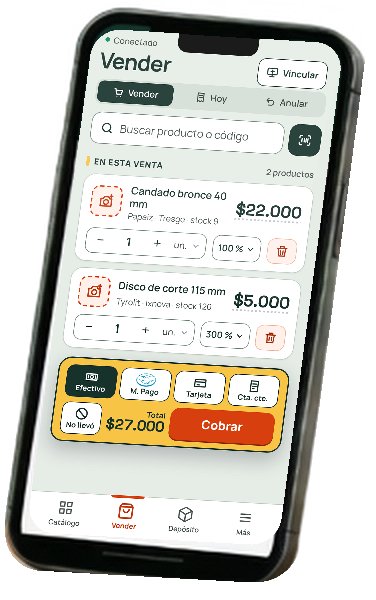
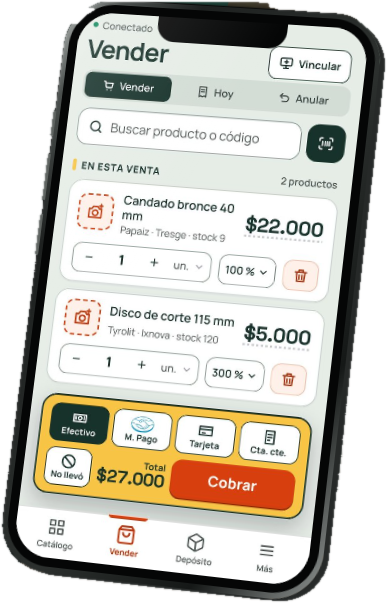
Entrada de la computadora: el celular que pasó Carlos, sin su fondo, y los textos de la izquierda separados como en la referencia (007-T013, 007-T014)
Claude-Session: https://claude.ai/code/session_01K4JzvhtHnM1hp5ZTrcQ7Mo

diff --git a/microservices/web/src/pantallas/compu/base/estilos/entrar-con-celular.css b/microservices/web/src/pantallas/compu/base/estilos/entrar-con-celular.css
@@ -20,17 +20,17 @@
 .entrar-cc-fondo { position: absolute; inset: 0; background: #0b3a30 center / 100% 100% no-repeat; }
 
 /* La marca, a la izquierda sobre el verde */
-.entrar-cc-marca { position: absolute; left: calc(80 / 1536 * 100%); top: calc(76 * var(--u)); width: max(330px, calc(480 * var(--u))); color: #fff; }
+.entrar-cc-marca { position: absolute; left: calc(80 / 1536 * 100%); top: calc(64 * var(--u)); width: max(330px, calc(480 * var(--u))); color: #fff; }
 /* La marca trae su tamaño escrito en el elemento; acá sigue el alto de la ventana. */
-.entrar-cc-marca .marca { display: block; font-size: calc(50 * var(--u)) !important; margin: 0 0 calc(22 * var(--u)) calc(-6 * var(--u)); }
+.entrar-cc-marca .marca { display: block; font-size: calc(50 * var(--u)) !important; margin: 0 0 calc(35 * var(--u)) calc(-6 * var(--u)); }
 .entrar-cc-antetitulo { margin: 0; font-size: 14px; font-weight: 600; letter-spacing: 0.34em; text-transform: uppercase; color: #7fae98; }
-.entrar-cc-marca h1 { margin: calc(4 * var(--u)) 0 calc(24 * var(--u)); font-size: calc(60 * var(--u)); line-height: 1.03; font-weight: 800; letter-spacing: -0.015em; color: #fff; }
+.entrar-cc-marca h1 { margin: calc(9 * var(--u)) 0 calc(31 * var(--u)); font-size: calc(60 * var(--u)); line-height: 1.07; font-weight: 800; letter-spacing: -0.015em; color: #fff; }
 .entrar-cc-marca h1 em { font-style: normal; color: var(--cc-menta); }
-.entrar-cc-bajada { margin: 0 0 calc(28 * var(--u)); max-width: max(330px, calc(470 * var(--u))); font-size: max(14px, calc(17.5 * var(--u))); line-height: 1.55; color: #c4d4cd; }
-.entrar-cc-puntos { margin: 0; padding: 0; list-style: none; display: flex; flex-direction: column; gap: calc(23 * var(--u)); }
+.entrar-cc-bajada { margin: 0 0 calc(46 * var(--u)); max-width: max(330px, calc(470 * var(--u))); font-size: max(14px, calc(17.5 * var(--u))); line-height: 1.55; color: #c4d4cd; }
+.entrar-cc-puntos { margin: 0; padding: 0; list-style: none; display: flex; flex-direction: column; gap: calc(25 * var(--u)); }
 .entrar-cc-puntos li { display: flex; align-items: center; gap: calc(20 * var(--u)); font-size: max(14px, calc(19 * var(--u))); line-height: 1.42; color: #f2f6f4; }
 .entrar-cc-puntos li > span:first-child { flex: none; display: grid; place-items: center; width: calc(66 * var(--u)); height: calc(68 * var(--u)); border-radius: 12px; background: #21443b; color: var(--cc-naranja); }
-.entrar-cc-puntos li > span:first-child svg { width: calc(32 * var(--u)); height: calc(32 * var(--u)); }
+.entrar-cc-puntos li > span:first-child svg { width: calc(44 * var(--u)); height: calc(44 * var(--u)); stroke-width: 1.9; }
 
 /* La frase manuscrita, con su flecha */
 .entrar-cc-lema { position: relative; margin: calc(78 * var(--u)) 0 0 calc(4 * var(--u)); }
@@ -40,7 +40,7 @@
 .entrar-cc-manuscrito span:nth-child(3) { padding-left: calc(66 * var(--u)); }
 .entrar-cc-flecha { position: absolute; left: calc(192 * var(--u)); top: calc(32 * var(--u)); width: calc(116 * var(--u)); height: calc(64 * var(--u)); fill: none; stroke: #8fd0a8; stroke-width: 2.4; stroke-linecap: round; }
 
-.entrar-cc-celular { position: absolute; left: calc(524 / 1600 * 100%); top: calc(330 / 1024 * 100%); height: calc(600 / 1024 * 100%); width: auto; aspect-ratio: 376 / 600; pointer-events: none; }
+.entrar-cc-celular { position: absolute; left: calc(524 / 1600 * 100%); top: calc(330 / 1024 * 100%); height: calc(600 / 1024 * 100%); width: auto; aspect-ratio: 387 / 603; pointer-events: none; }
 
 /* La tarjeta para entrar, a la derecha sobre lo claro */
 .entrar-cc-tarjeta { position: absolute; right: calc(46 / 1536 * 100%); top: calc(100 * var(--u)); width: max(440px, calc(588 * var(--u))); display: flex; flex-direction: column; gap: calc(20 * var(--u));

diff --git a/tests/capturas/entrada-compu.py b/tests/capturas/entrada-compu.py
@@ -3,6 +3,7 @@ Carlos (specs/007-usuarios-y-acceso/maquetas/capas/) y de una captura real de Ve
 
     python tests/capturas/capturar.py vender --celu ...   # la venta, en 390 × 790 (ver más abajo)
     uv run --with pillow --with numpy python tests/capturas/entrada-compu.py tests/capturas/salida/cel-vender-celu.png
+    uv run --with pillow --with numpy --with scipy python tests/capturas/entrada-compu.py --celular-con-venta
 
 Deja en microservices/web/src/pantallas/compu/base/imagenes/:
 - entrar-fondo.jpg: las formas del fondo, la foto del local y la mesa, sin el celular.
@@ -100,5 +101,34 @@ def main(captura: str):
     print("listo:", SALIDA / "entrar-fondo.jpg", SALIDA / "entrar-celular.png", "celular en", (x0, y0, x1, y1), "de", (ancho, alto))
 
 
+def recortar_celular(origen: Path):
+    """El celular que armó Carlos con la venta ya puesta (capas/celular-con-venta.png), sin su
+    fondo. El marco es negro o gris sin color, y el fondo es verde o madera: se toma la mancha
+    más grande de gris oscuro (el marco) y todo lo que queda adentro de ella."""
+    from scipy import ndimage
+    im = Image.open(origen).convert("RGBA")
+    a = np.array(im).astype(int)
+    gris = (np.abs(a[..., 0] - a[..., 1]) < 14) & (np.abs(a[..., 1] - a[..., 2]) < 14) & (a[..., :3].max(-1) < 110)
+    manchas, n = ndimage.label(gris)
+    marco = manchas == 1 + int(np.argmax(ndimage.sum(gris, manchas, range(1, n + 1))))
+    # Arriba, el marco se toca con un pedacito del fondo: el celular empieza donde el marco ya es ancho.
+    anchos = marco.sum(1)
+    arriba = int(np.argmax(anchos > 60))
+    marco[:arriba] = False
+    adentro = np.zeros_like(marco)
+    for y in range(marco.shape[0]):
+        xs = np.where(marco[y])[0]
+        if len(xs) > 1: adentro[y, xs.min():xs.max() + 1] = True
+    adentro = ndimage.binary_erosion(adentro, iterations=1)
+    mascara = Image.fromarray((adentro * 255).astype("uint8")).filter(ImageFilter.GaussianBlur(0.7))
+    im.putalpha(mascara)
+    im.crop(im.getbbox()).save(SALIDA / "entrar-celular.png", optimize=True)
+    print("listo:", SALIDA / "entrar-celular.png", im.getbbox())
+
+
 if __name__ == "__main__":
-    main(sys.argv[1] if len(sys.argv) > 1 else str(RAIZ / "tests/capturas/salida/cel-vender-celu.png"))
+    # --celular-con-venta: usa el celular que pasó Carlos (con la venta ya puesta) en vez de armarlo.
+    if "--celular-con-venta" in sys.argv:
+        recortar_celular(CAPAS / "celular-con-venta.png")
+    else:
+        main(sys.argv[1] if len(sys.argv) > 1 else str(RAIZ / "tests/capturas/salida/cel-vender-celu.png"))

diff --git a/specs/007-usuarios-y-acceso/tasks.md b/specs/007-usuarios-y-acceso/tasks.md
@@ -21,3 +21,5 @@ tareas»). Las funcionalidades nuevas tienen su propia carpeta.
 - [x] T010 [interfaz] La entrada de la computadora copia la imagen de referencia de Carlos: verde con la marca, foto con un celular que muestra una venta, y la tarjeta sobre fondo claro (decisión 93); el celular no cambia
 - [x] T011 [interfaz] La entrada de la computadora se parece más a la referencia de Carlos y su kit de capas: un celular con espesor y marco metálico, el botón de Google a todo el ancho de la tarjeta, los tres puntos cortados como en la referencia y el verde con su degradé (decisión 93)
 - [x] T012 [interfaz] La entrada de la computadora se arma con las capas que pasó Carlos: sus formas del fondo, la foto del local y el celular, con la pantalla real de la venta puesta en perspectiva (decisión 93)
+- [x] T013 [interfaz] El celular de la entrada de la computadora es el que pasó Carlos con la venta ya puesta, sin su fondo, que se ve más nítido (decisión 93)
+- [x] T014 [ajuste] En la entrada de la computadora, la separación entre el logotipo, el antetítulo, el título, la bajada y las tres cosas que hace, y el tamaño de sus íconos, siguen la imagen de referencia de Carlos (decisión 93)

diff --git a/specs/007-usuarios-y-acceso/ux.md b/specs/007-usuarios-y-acceso/ux.md
@@ -125,8 +125,12 @@ tarjeta; cada una de las tres cosas que hace corta en el mismo lugar que la refe
 tiene un degradé suave con arcos. Después Carlos pasó las capas sueltas
 (`maquetas/capas/`): el fondo, la foto del local y el celular salen de ellas; el texto y la
 tarjeta siguen siendo de la aplicación (las capas los traen como imagen, con letras deformadas).
-La pantalla del celular es la captura real de la venta, puesta en perspectiva sobre la del
-celular de la capa.
+El celular es el que pasó Carlos con la venta ya puesta (`maquetas/capas/celular-con-venta.png`),
+sin su fondo: se ve más nítido que el de la capa. Si cambia la pantalla de Vender, se vuelve a
+armar con la captura nueva sobre el celular de la capa, o con otro celular que pase Carlos.
+La separación de los textos de la izquierda (logotipo, antetítulo, título, bajada y las tres cosas
+que hace) y el tamaño de sus íconos se midieron sobre un recorte de la referencia que pasó Carlos
+el 2026-10-16: quedan a 2 o 3 píxeles de ella en una pantalla de 1536 × 1024.
 
 **Qué necesita a la vista en el celular:**
 
